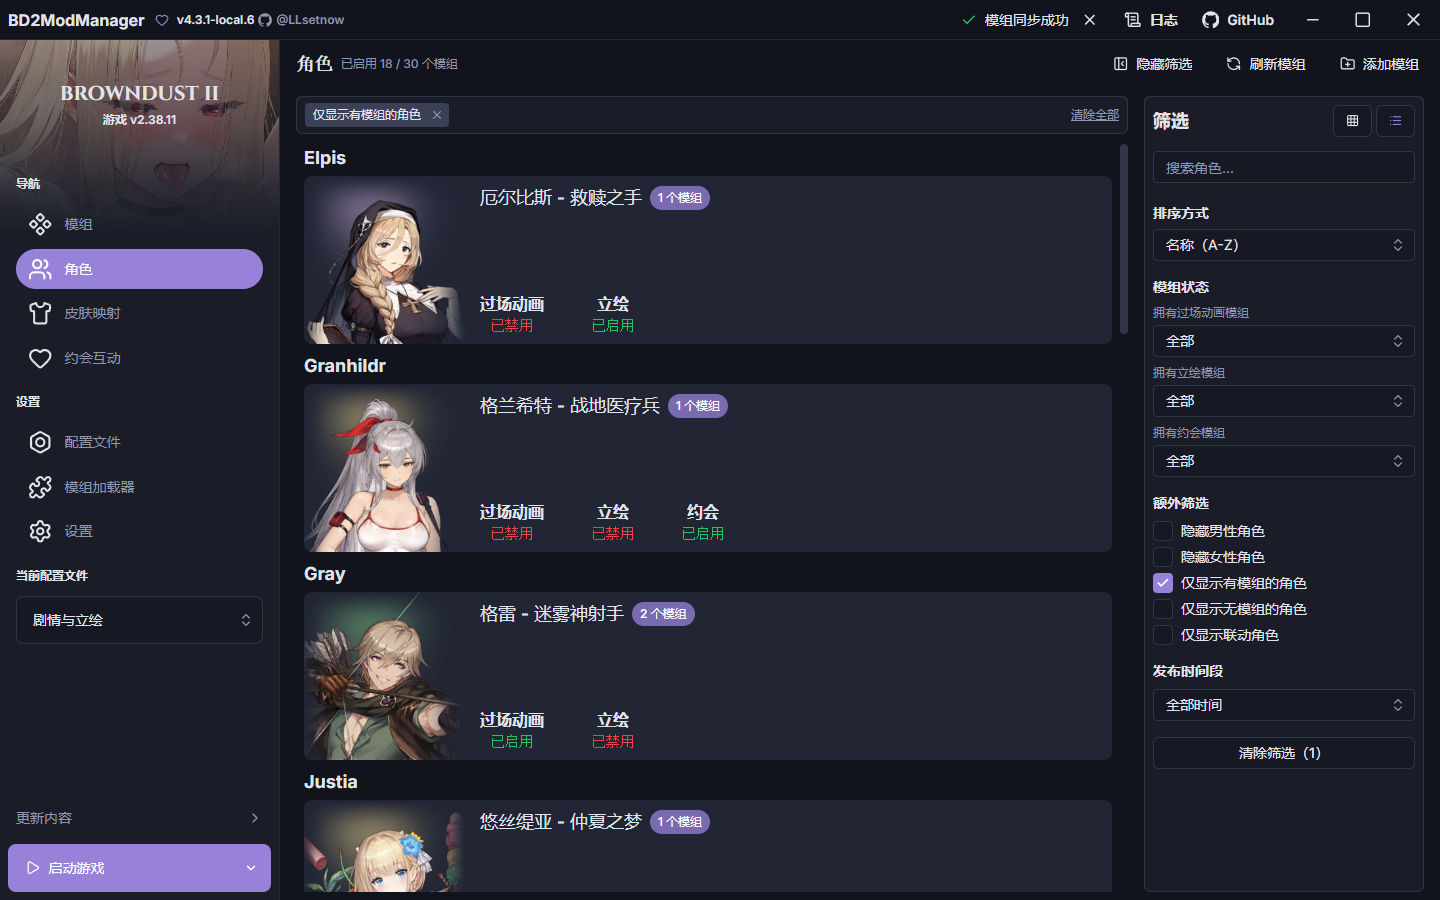
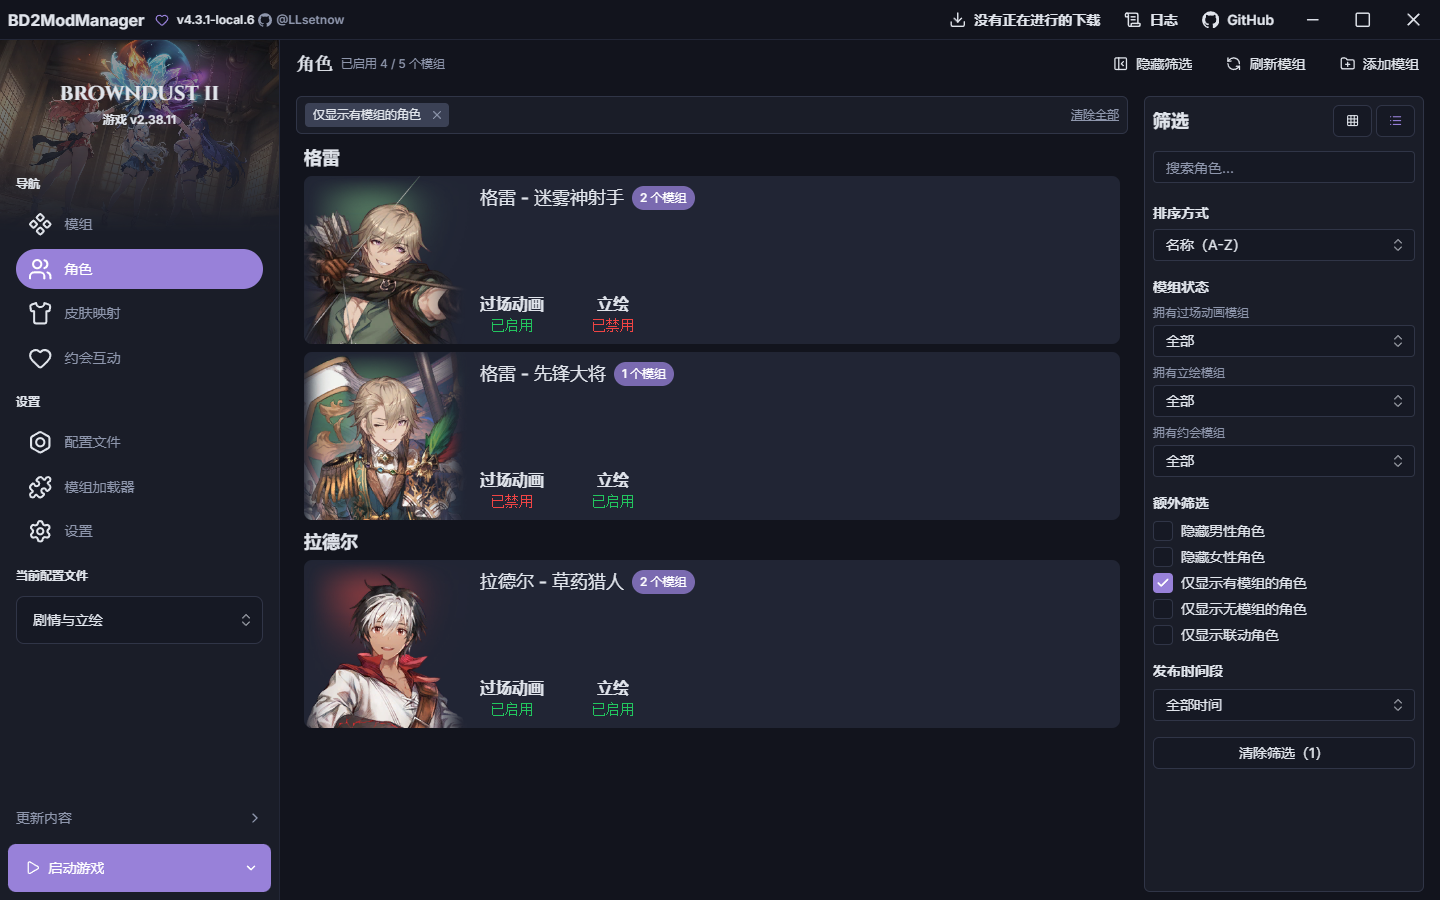
docs: sync English gallery and fix character list labels

diff --git a/src/pages/characters/CharactersTab.vue b/src/pages/characters/CharactersTab.vue
@@ -10,6 +10,7 @@ import { Character, useCharactersStore } from '../../stores/characters';
 import { useModsStore } from '../../stores/mods';
 
 import { useHeader } from '../../composables/useHeader';
+import { getCharName, useLang } from '../../utils/formatCharName.ts';
 
 import CharacterList from './CharacterList.vue';
 import CharacterGrid from './CharacterGrid.vue';
@@ -25,6 +26,7 @@ import { useModActions } from '../../composables/useModActions.ts';
 import { useModInstall } from '../../composables/useModInstall.ts';
 
 const { t } = useI18n()
+const lang = useLang()
 const route = useRoute()
 
 const charactersStore = useCharactersStore()
@@ -362,7 +364,7 @@ const charactersList = computed(() => {
     }
 
     return Array.from(groups.entries()).map(([name, costumes]) => ({
-        name,
+        name: getCharName(costumes[0], lang.value).character || name,
         costumes: costumes.map(costume => ({
             ...costume,
             hasCutscene: hasCutsceneInstalled(costume.id),

diff --git a/README.en.md b/README.en.md
@@ -89,11 +89,7 @@ Creates shortcuts instead of copying files.
 - ✅ Saves disk space
 - ❌ Requires admin rights
 
-#### Example Comparison (383 mods)
-
-| Copy | Symlink |
-|------|---------|
-| <img src="./screenshots/sync_copy_v405.gif" width="260" /> | <img src="./screenshots/sync_symlink_v405.gif" width="260" /> |
+After syncing, click the sync status in the top-right corner to see the result for each mod. [View screenshots](#screenshots)
 
 ## Skin Mapping and Dating Interaction Plugins: Files and Installation
 
@@ -127,8 +123,8 @@ Install BepInEx first, then exit the game before installing or updating either p
 ### Settings files and external resources
 
 - **Skin mapping `settings.json`** stores the master switch, source-to-target costume mappings, individual mapping switches, and the selected skins. The plugin uses existing game assets and can also use enabled asset replacement mods through BrownDustX.
-- **Dating interaction `settings.json`** stores each scene's P and native entry switches, the interaction JSON, audio, and asset directories, and options such as the left-button hold duration and interaction marker opacity.
-- **External dating resources:** P mode uses `illust_dating*.json` files to describe interaction scenes. Dating audio and artwork are stored in the local directories selected in settings. These resources are separate from the plugin DLL. Download locations are listed in [Dating interaction resources and directory settings](#dating-interactions-resource-sources-and-directory-settings) below.
+- **Dating interaction `settings.json`** stores each scene's P and native entry switches, the left mouse button hold duration, and interaction marker opacity.
+- **External dating resources** include scene JSON, audio, and ModPreview assets. The manager and ModPreview download the files they need to the configured asset library. [Brown Dust 2 Asset Library](https://github.com/LLsetnow/Brown-Dust-2-Asset)
 
 Each plugin's `settings.json` controls that plugin. The `illust_dating*.json` files describe interaction content. Manager also saves configuration copies named `costume-skins.json` and `local-interactions.json` in its application data directory.
 
@@ -138,30 +134,146 @@ Each plugin's `settings.json` controls that plugin. The `illust_dating*.json` fi
 
 <a id="dating-interactions-resource-sources-and-directory-settings"></a>
 
-## Dating Interactions: Resource Sources and Directory Settings
+## Asset Library
 
-Open **Settings → Dating interactions**, select the appropriate local folder for each of the following settings, then click **Save settings**.
-
-| Setting | Resource source | Local folder to select |
-| --- | --- | --- |
-| **Interaction JSON directory** | [LLsetnow/neowiz: dating-interaction-configs](https://github.com/LLsetnow/neowiz/tree/main/mods/dating-interaction-configs) | After downloading or cloning the repository, select `mods/dating-interaction-configs`, which directly contains `illust_dating1.json` through `illust_dating22.json`. |
-| **Dating audio directory** | [bruhnn/Brown-Dust-2-Asset: audio/dating](https://github.com/bruhnn/Brown-Dust-2-Asset/tree/master/audio/dating) | Select the asset library's `audio/dating` subdirectory (`audio\dating` on Windows), for example `F:\Neowiz\Brown-Dust-2-Asset-master\audio\dating`. |
-| **Artwork asset library directory** | [bruhnn/Brown-Dust-2-Asset](https://github.com/bruhnn/Brown-Dust-2-Asset/tree/master) | Select the root of the downloaded or cloned asset library, containing folders such as `spine`, `ui`, and `header`, for example `F:\Neowiz\Brown-Dust-2-Asset-master`. |
-
-Both dating audio and artwork are available from [bruhnn/Brown-Dust-2-Asset](https://github.com/bruhnn/Brown-Dust-2-Asset/tree/master), a library based on assets by [myssal](https://github.com/myssal/Brown-Dust-2-Asset). After downloading or cloning this asset library, set **Dating audio directory** to its `audio/dating` subdirectory (`audio\dating` on Windows), and set **Artwork asset library directory** to the asset library's root.
+Select a local root folder under **Settings → General → Directories → Art Asset Library Directory**. When you open Dating Interactions, the manager checks for scene JSON under `audio/dating` and downloads missing files. ModPreview also saves assets it downloads to this library root. [Brown Dust 2 dating scene assets](https://github.com/LLsetnow/Brown-Dust-2-Asset/tree/master/audio/dating)
 
 ---
 
-## 📸 Screenshots
+## Screenshots
 
-### Mods Page (v4.0.1)
-![Mods Page](./screenshots/mods_page_v401.png)
+These screenshots show a BD2ModManager `v4.3.1-local.6` source build in Simplified Chinese with example mods, profiles, and directory paths.
 
-### Characters Page (v4.0.1)
-![Characters Page](./screenshots/characters_page_v401.png)
+### Mod Management
 
-### Mod Preview (BD2ModPreview v1.0.0)
-![Mod Preview](./screenshots/bd2modpreview_v100v2.png)
+See which mods are enabled in the active profile. Search by mod name, character, or author, and filter by standing portrait, cutscene, scene, dating, NPC, or minigame.
+
+![Mod library with search, type filters, and sync controls](./screenshots/v4.3.1-local.6/mod-library.png)
+
+<details>
+<summary>Importing, filtering, bulk actions, conflicts, and sync</summary>
+
+Use **Add Mod** to import a ZIP archive or an existing folder.
+
+![Add Mod menu with ZIP and folder import options](./screenshots/v4.3.1-local.6/mod-import.png)
+
+Use advanced filters to find enabled or disabled mods, conflicts, and errors.
+
+![Advanced filters for the mod list](./screenshots/v4.3.1-local.6/mod-filters.png)
+
+Right-click a mod to preview it, rename it, edit its author, or copy it to another character ID.
+
+![Context menu for a single mod](./screenshots/v4.3.1-local.6/mod-actions.png)
+
+Select several mods to enable, disable, edit their authors, or delete them together.
+
+![Bulk action menu for three selected NPC mods](./screenshots/v4.3.1-local.6/mod-bulk-actions.png)
+
+When the manager detects a conflict, preview the candidates and select which mod to keep before syncing.
+
+![Conflict resolution for two standing portrait mods targeting one costume](./screenshots/v4.3.1-local.6/mod-conflicts.png)
+
+Click the sync status in the title bar to see progress and the result for each mod.
+
+![Completed sync with a progress bar and per-mod log](./screenshots/v4.3.1-local.6/mod-sync.png)
+
+</details>
+
+### Character Gallery and ModPreview
+
+The character grid shows costumes, mod counts, and mod status by type. Filters include mod status, release dates, and collaboration characters.
+
+![Character grid filtered to costumes with mods](./screenshots/v4.3.1-local.6/character-gallery.png)
+
+<details>
+<summary>Character list, costume details, portrait comparison, and skill animation</summary>
+
+The list groups costumes by character and shows the status of cutscene, standing portrait, and dating mods. Group headings follow the character name setting.
+
+![Costumes grouped under localized character names in list view](./screenshots/v4.3.1-local.6/character-list.png)
+
+Open a costume to manage mods by type, preview one mod, compare mods of the same type, or open Skin Mapping.
+
+![Costume details with mod tabs, enable switches, and comparison controls](./screenshots/v4.3.1-local.6/character-costume.png)
+
+**Compare all** opens the selected mod type in ModPreview `v1.0.5-local.2`. Play standing portraits side by side and put previews in the same group to control them together.
+
+![Two standing portrait mods playing side by side in ModPreview](./screenshots/v4.3.1-local.6/preview-compare.png)
+
+Skill cutscene previews include a timeline, animated in-game backgrounds, and skill audio.
+
+![Gray's skill cutscene with an audio status indicator and playback timeline](./screenshots/v4.3.1-local.6/preview-skill.png)
+
+</details>
+
+### Skin Mapping and Dating Interactions
+
+Dating Interactions manages the official native entry and the extra P entry separately. Each character has independent switches, and the scene card shows the status of its local JSON file.
+
+![Dating interaction controls for native and P entries and per-character scene status](./screenshots/v4.3.1-local.6/dating-interactions.png)
+
+<details>
+<summary>Costume skin mapping and per-character dating mods</summary>
+
+Add target skins for the same character, select the current appearance, and enable or disable individual mappings.
+
+![Source costume, target skin, and saved costume mappings](./screenshots/v4.3.1-local.6/costume-skin-mapping.png)
+
+Open the mod list from a dating character card to enable, disable, or preview that character's dating mods.
+
+![Dating mod details opened from a character's scene card](./screenshots/v4.3.1-local.6/dating-mods.png)
+
+</details>
+
+### Profiles and Mod Loader
+
+<details>
+<summary>Profiles, templates, and loader components</summary>
+
+Save multiple mod setups, switch the active profile from the sidebar, and see which mods each profile enables.
+
+![Profile list and the mods enabled in the selected profile](./screenshots/v4.3.1-local.6/profiles.png)
+
+Use an existing profile as a template when you create a new one.
+
+![New profile form with a name, description, and template](./screenshots/v4.3.1-local.6/profile-create.png)
+
+The Mod Loader shows the versions and installation status of BepInEx, BrownDustX, and Configuration Manager. Drop a BepInEx or BrownDustX archive onto the page to install it.
+
+![Mod Loader component versions, installation status, and drop area](./screenshots/v4.3.1-local.6/mod-loader.png)
+
+</details>
+
+### Application Settings
+
+<details>
+<summary>Directories, sync, themes, list display, dating controls, updates, and migration</summary>
+
+General settings include language, theme, game and staging directories, the artwork library, and the sync method.
+
+![General settings with game, staging, and artwork library directories](./screenshots/v4.3.1-local.6/settings-general.png)
+
+Use the theme editor to customize accent colors, borders, text, mod types, and status colors.
+
+![Theme editor with color categories and values](./screenshots/v4.3.1-local.6/theme-editor.png)
+
+Choose which columns appear in the mod list and how character names, mod type icons, and colors are displayed.
+
+![Settings for mod list columns and appearance](./screenshots/v4.3.1-local.6/settings-interface.png)
+
+Adjust how long to hold the left mouse button before dragging and set the interaction marker opacity for the extra P entry.
+
+![Dating interaction hold duration and interaction marker opacity](./screenshots/v4.3.1-local.6/settings-dating.png)
+
+See the installed Manager and ModPreview versions. The Updates tab also provides manual checks, an update channel, and automatic update options.
+
+![Manager and ModPreview version and update settings](./screenshots/v4.3.1-local.6/settings-updates.png)
+
+Import profiles and mod authors from v3.2.4 or earlier under **Experimental Features**.
+
+![Import options for legacy profiles and mod authors](./screenshots/v4.3.1-local.6/settings-migration.png)
+
+</details>
 
 ---
 

diff --git a/README.md b/README.md
@@ -137,7 +137,7 @@
 
 ## 界面截图
 
-以下截图来自 BD2ModManager `v4.3.1-local.6` 的简体中文界面。模组条目、配置文件和目录使用演示数据。
+以下截图来自 BD2ModManager `v4.3.1-local.6` 源码构建的简体中文界面。模组条目、配置文件和目录使用演示数据。
 
 ### Mod 管理
 
@@ -183,7 +183,7 @@
 <details>
 <summary>角色列表、服装详情、立绘对比和技能动画</summary>
 
-列表视图按角色归拢服装，并列出过场动画、立绘和约会 Mod 的状态。
+列表视图按角色归拢服装，并列出过场动画、立绘和约会 Mod 的状态。分组标题跟随角色名称设置。
 
 ![按角色分组的服装列表](./screenshots/v4.3.1-local.6/character-list.png)
 
